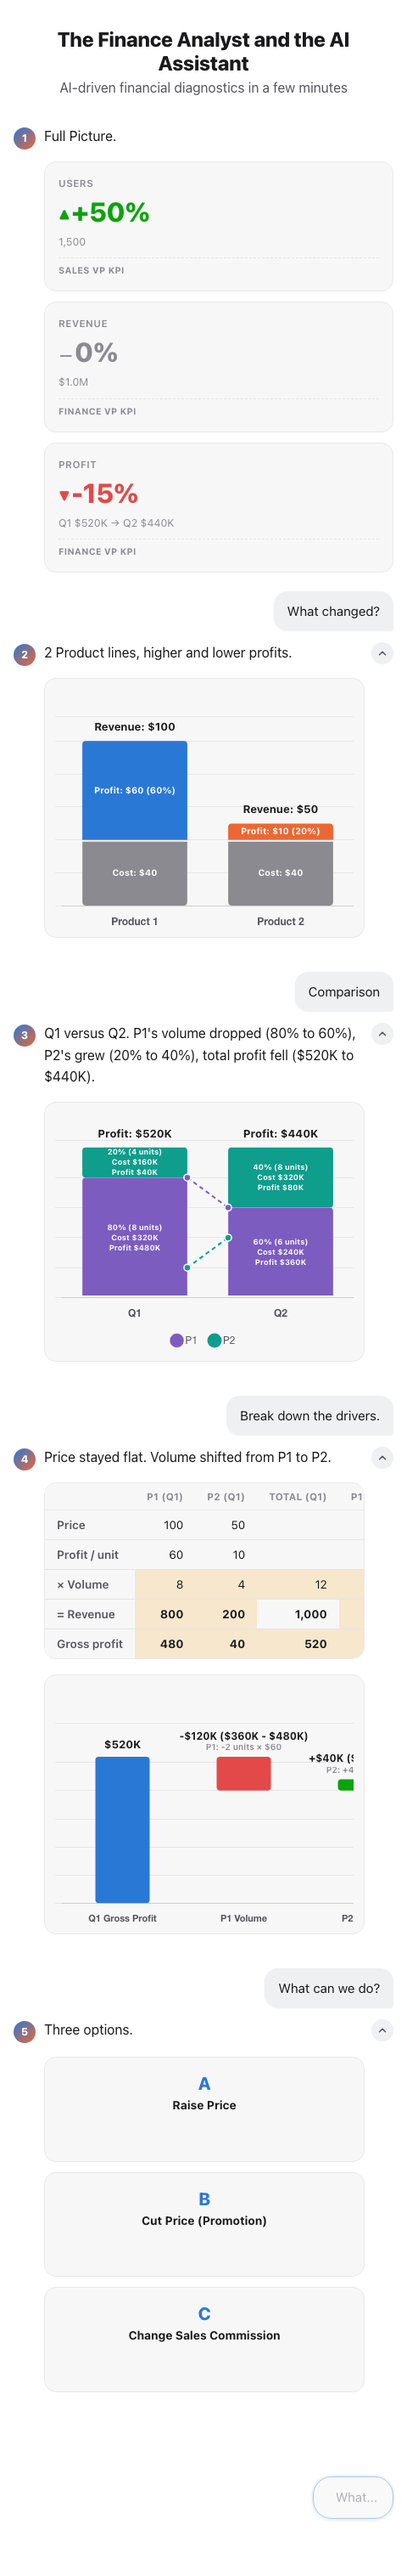
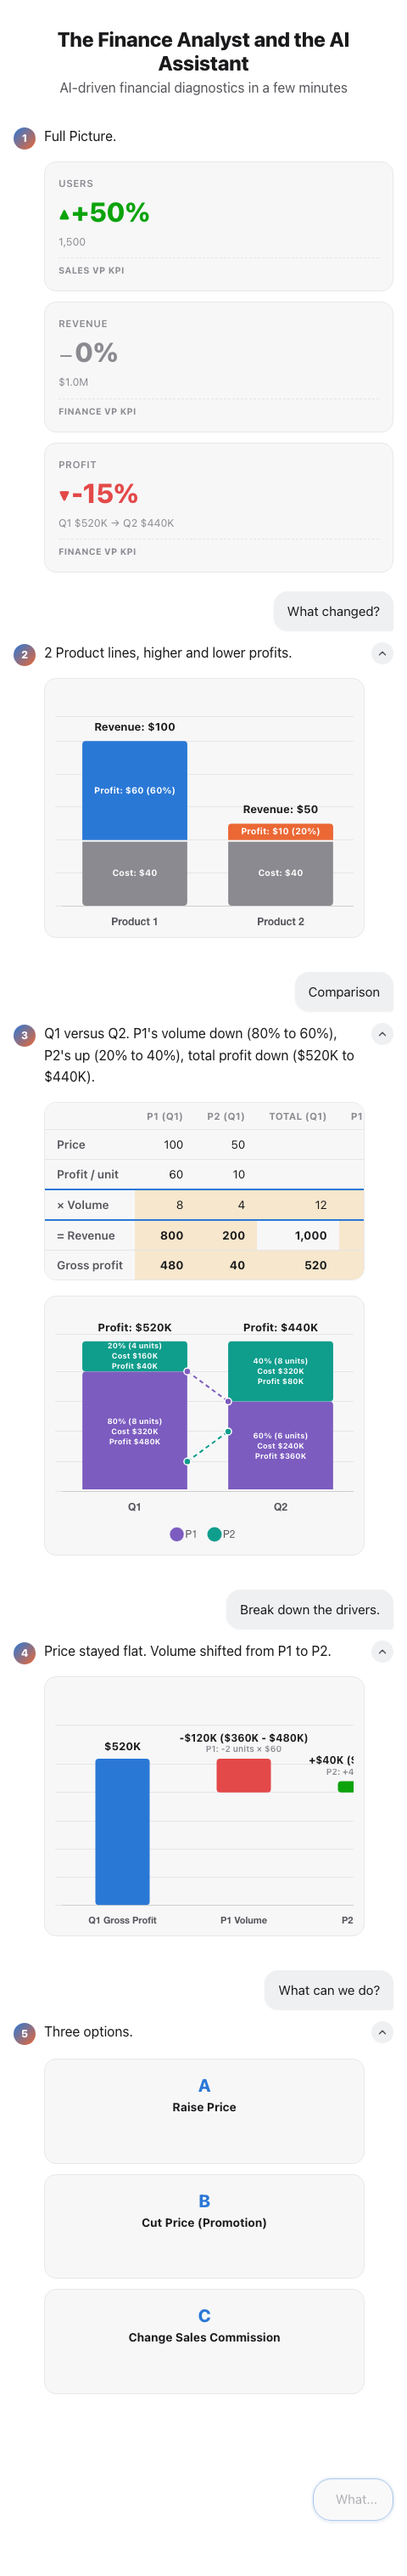
Move drivers table into page 3, round breakeven volume, tidy copy
Table showing per-unit price/profit and total revenue/gross profit now
sits above page 3's mix-shift chart instead of on its own page 4, with a
bridge-row divider marking Volume as the pivot between the per-unit and
total sections. Breakeven slider on page 6 rounds volume to whole units
for both display and the profit calc so the numbers stay consistent.
Screenshots regenerated to match.

diff --git a/XT/index.html b/XT/index.html
@@ -352,6 +352,11 @@
     border-top: 2px solid var(--card-border);
   }
 
+  .data-table tr.bridge-row td {
+    border-top: 2px solid var(--blue);
+    border-bottom: 2px solid var(--blue);
+  }
+
   /* ---------- charts ---------- */
 
   .chart-card {
@@ -527,6 +532,13 @@
     font-size: 1.05rem;
     font-weight: 800;
     color: var(--text-primary);
+  }
+
+  .breakeven-stat-compare {
+    display: block;
+    margin: 3px 0 0;
+    font-size: 0.68rem;
+    color: var(--text-muted);
   }
 
   .breakeven-status {
@@ -987,7 +999,22 @@
               <button class="collapse-btn" id="collapseBtn-3" data-page="3" type="button" aria-label="Collapse this response">
                 <svg viewBox="0 0 24 24" fill="none" stroke="currentColor" stroke-width="2.5" stroke-linecap="round" stroke-linejoin="round"><polyline points="6 15 12 9 18 15"></polyline></svg>
               </button>
-              <p class="ai-message">Q1 versus Q2. P1's volume dropped (80% to 60%), P2's grew (20% to 40%), total profit fell ($520K to $440K).</p>
+              <p class="ai-message">Q1 versus Q2. P1's volume down (80% to 60%), P2's up (20% to 40%), total profit down ($520K to $440K).</p>
+
+              <div class="table-scroll">
+                <table class="data-table">
+                  <thead>
+                    <tr><th></th><th>P1 (Q1)</th><th>P2 (Q1)</th><th>Total (Q1)</th><th>P1 (Q2)</th><th>P2 (Q2)</th><th>Total (Q2)</th></tr>
+                  </thead>
+                  <tbody>
+                    <tr><td>Price</td><td>100</td><td>50</td><td></td><td>100</td><td>50</td><td></td></tr>
+                    <tr><td>Profit / unit</td><td>60</td><td>10</td><td></td><td>60</td><td>10</td><td></td></tr>
+                    <tr class="bridge-row"><td>&times; Volume</td><td class="changed">8</td><td class="changed">4</td><td class="changed">12</td><td class="changed">6</td><td class="changed">8</td><td class="changed">14</td></tr>
+                    <tr><td>= Revenue</td><td class="emph changed">800</td><td class="emph changed">200</td><td class="emph">1,000</td><td class="emph changed">600</td><td class="emph changed">400</td><td class="emph">1,000</td></tr>
+                    <tr><td>Gross profit</td><td class="emph changed">480</td><td class="emph changed">40</td><td class="emph changed">520</td><td class="emph changed">360</td><td class="emph changed">80</td><td class="emph changed">440</td></tr>
+                  </tbody>
+                </table>
+              </div>
 
               <div class="chart-card">
                 <div class="chart-scroll">
@@ -1016,21 +1043,6 @@
                 <svg viewBox="0 0 24 24" fill="none" stroke="currentColor" stroke-width="2.5" stroke-linecap="round" stroke-linejoin="round"><polyline points="6 15 12 9 18 15"></polyline></svg>
               </button>
               <p class="ai-message">Price stayed flat. Volume shifted from P1 to P2.</p>
-
-              <div class="table-scroll">
-                <table class="data-table">
-                  <thead>
-                    <tr><th></th><th>P1 (Q1)</th><th>P2 (Q1)</th><th>Total (Q1)</th><th>P1 (Q2)</th><th>P2 (Q2)</th><th>Total (Q2)</th></tr>
-                  </thead>
-                  <tbody>
-                    <tr><td>Price</td><td>100</td><td>50</td><td></td><td>100</td><td>50</td><td></td></tr>
-                    <tr><td>Profit / unit</td><td>60</td><td>10</td><td></td><td>60</td><td>10</td><td></td></tr>
-                    <tr><td>&times; Volume</td><td class="changed">8</td><td class="changed">4</td><td class="changed">12</td><td class="changed">6</td><td class="changed">8</td><td class="changed">14</td></tr>
-                    <tr><td>= Revenue</td><td class="emph changed">800</td><td class="emph changed">200</td><td class="emph">1,000</td><td class="emph changed">600</td><td class="emph changed">400</td><td class="emph">1,000</td></tr>
-                    <tr><td>Gross profit</td><td class="emph changed">480</td><td class="emph changed">40</td><td class="emph changed">520</td><td class="emph changed">360</td><td class="emph changed">80</td><td class="emph changed">440</td></tr>
-                  </tbody>
-                </table>
-              </div>
 
               <div class="chart-card">
                 <div class="chart-scroll">
@@ -1143,6 +1155,7 @@
                   <div class="breakeven-stat">
                     <span class="breakeven-stat-label">Volume</span>
                     <span class="breakeven-stat-value" id="beStatVolume">10 units</span>
+                    <span class="breakeven-stat-compare">Q2: 6 units</span>
                   </div>
                   <div class="breakeven-stat">
                     <span class="breakeven-stat-label">Total Gross Profit</span>
@@ -1224,7 +1237,7 @@
 
               <div class="roles-grid">
                 <div class="role-row silicon">
-                  <p class="role-label">&#129302; Silicon Employee<span class="role-sublabel">AI Assistant</span></p>
+                  <p class="role-label">&#129302; Silicon Employee (AI Agent)<span class="role-sublabel">AI Assistant</span></p>
                   <div class="role-tasks">
                     <span>Simplify the Calculations</span>
                     <span>Trace the Drivers</span>
@@ -1236,10 +1249,10 @@
                   </div>
                 </div>
                 <div class="role-row carbon">
-                  <p class="role-label">&#128100;&#8205;&#128188; Carbon Employee<span class="role-sublabel">Finance Analyst</span></p>
+                  <p class="role-label">&#128100;&#8205;&#128188; Carbon Employee (Me)<span class="role-sublabel">Finance Analyst</span></p>
                   <div class="role-tasks">
                     <span>Discuss the Options</span>
-                    <span>Weigh the Trade-offs</span>
+                    <span>Balance the Trade-offs</span>
                     <span>Make the Tough Calls</span>
                     <span>Align the target like Cross-functionally</span>
                   </div>
@@ -1837,13 +1850,13 @@
 
     function updateBreakeven() {
       var price = parseFloat(breakevenSlider.value);
-      var volume = beVolumeAt(price);
+      var volume = Math.round(beVolumeAt(price));
       var p1Profit = (price - BE_COST_PER_UNIT) * volume;
       var total = p1Profit + BE_P2_PROFIT;
       var delta = total - BE_BASELINE_TOTAL;
 
       beStatPrice.textContent = '$' + beFormatNumber(price, 2);
-      beStatVolume.textContent = beFormatNumber(volume, 1) + ' units';
+      beStatVolume.textContent = volume + ' units';
       beStatProfit.textContent = '$' + Math.round(total) + 'K';
 
       var roundedDelta = Math.round(delta);
